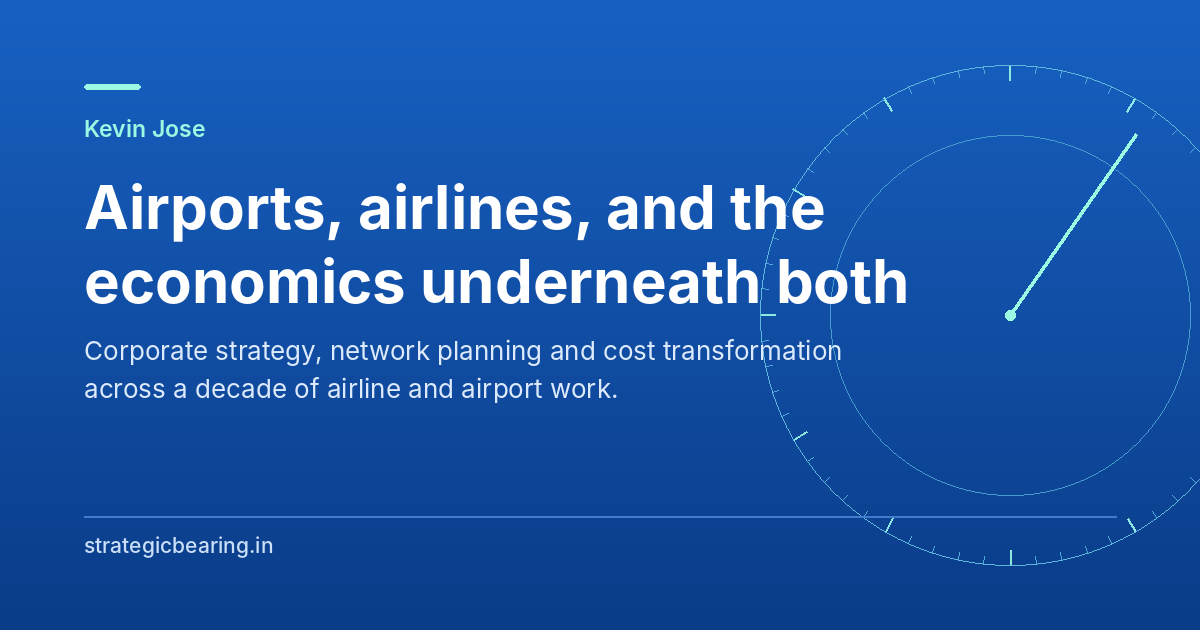
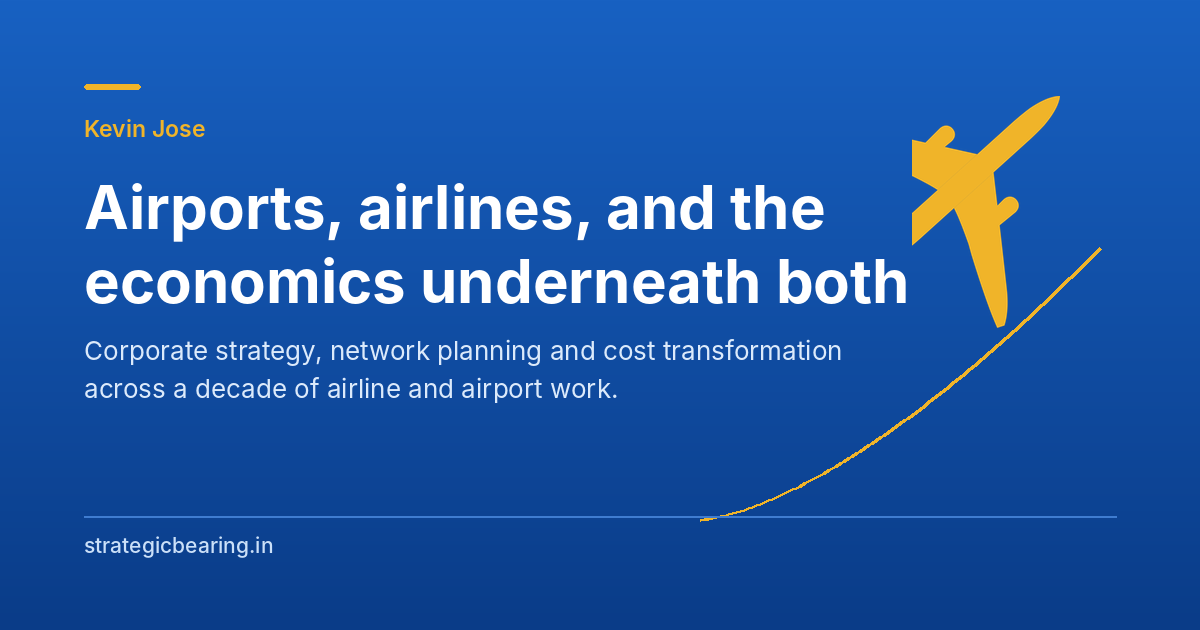
New theme

diff --git a/index.html b/index.html
@@ -33,8 +33,9 @@
   --ink:#082E63; --navy:#0F55B0; --navy-lift:#2171D6;
   --royal:#2171D6; --royal-deep:#0A3C88;
   --teal:#0F5FC0;            /* accent text on light surfaces */
-  --mint:#23D6A6;            /* fills, rules, the compass — never text on blue */
-  --mint-text:#6FF0D2;       /* the accent when it must be read on blue */
+  /* gold: marks, rules and fills only. Nothing saturated reaches 4.5:1 on this
+     blue, so text on blue is white or a pale tint, never the accent. */
+  --accent:#F0B429; --accent-soft:#FFD166;
   --paper:#EEF4FD; --white:#FFFFFF;
   --text:#102A52; --muted:#53688A;
   --line:#DCE7F5; --line-on-dark:rgba(255,255,255,.16);
@@ -69,7 +70,7 @@ p{margin:0 0 18px}
 .marker{display:flex; align-items:center; gap:10px; margin-bottom:14px;
   font-size:13px; font-weight:600; color:var(--muted); letter-spacing:0}
 .marker::before{content:""; width:18px; height:2px; border-radius:2px;
-  background:var(--teal); flex:none}
+  background:var(--accent); flex:none}
 .band--dark .marker{color:#A9C8EC}
 .lede{font-size:18px; color:var(--muted); margin:14px 0 0; max-width:60ch}
 
@@ -79,13 +80,13 @@ p{margin:0 0 18px}
   padding:13px 22px; border-radius:9px; text-decoration:none;
   border:1px solid transparent; cursor:pointer;
   transition:background-color .16s ease, border-color .16s ease, color .16s ease}
-.btn--solid{background:var(--mint); color:#04291F}
-.btn--solid:hover{background:#4FE5BC}
+.btn--solid{background:var(--accent); color:#17244A}
+.btn--solid:hover{background:#FFC94F}
 .btn--ghost{border-color:rgba(255,255,255,.3); color:#fff}
-.btn--ghost:hover{border-color:var(--mint-text); color:var(--mint-text)}
+.btn--ghost:hover{border-color:var(--accent-soft); color:var(--accent-soft)}
 .btn--dark{background:var(--navy); color:#fff}
 .btn--dark:hover{background:var(--navy-lift)}
-.btn:focus-visible{outline:2px solid var(--mint-text); outline-offset:3px}
+.btn:focus-visible{outline:2px solid var(--accent-soft); outline-offset:3px}
 
 /* nav */
 .nav{position:sticky; top:0; z-index:100; background:rgba(14,74,156,.95);
@@ -96,8 +97,8 @@ p{margin:0 0 18px}
 .nav-links{display:flex; gap:28px; list-style:none; margin:0; padding:0}
 .nav-links a{font-size:14.5px; font-weight:500; color:rgba(255,255,255,.78);
   text-decoration:none; transition:color .15s ease}
-.nav-links a:hover,.nav-links a[aria-current]{color:var(--mint-text)}
-.nav-links a:focus-visible{outline:2px solid var(--mint-text); outline-offset:4px; border-radius:3px}
+.nav-links a:hover,.nav-links a[aria-current]{color:var(--accent-soft)}
+.nav-links a:focus-visible{outline:2px solid var(--accent-soft); outline-offset:4px; border-radius:3px}
 
 /* footer */
 footer{background:var(--ink); color:rgba(255,255,255,.62); padding:40px 0; font-size:14px}
@@ -105,7 +106,7 @@ footer .wrap{display:flex; justify-content:space-between; align-items:center;
   flex-wrap:wrap; gap:14px}
 .foot-links{display:flex; gap:24px}
 footer a{color:rgba(255,255,255,.78); text-decoration:none}
-footer a:hover{color:var(--mint-text)}
+footer a:hover{color:var(--accent-soft)}
 
 @media (max-width:760px){
   .band{padding:60px 0}
@@ -133,14 +134,14 @@ footer a:hover{color:var(--mint-text)}
 .hero .wrap{position:relative; z-index:2; padding-top:104px; padding-bottom:96px; max-width:var(--wrap)}
 .hero-copy{max-width:640px}
 .hero h1{color:#fff; margin-bottom:16px}
-.hero-role{font-size:19px; font-weight:500; color:#8CF5DD; margin-bottom:20px}
-.hero-sub{font-size:17.5px; line-height:1.68; color:#E3EEFB; max-width:58ch; margin-bottom:30px}
-.hero-cta{display:flex; gap:12px; flex-wrap:wrap}
-.rose{position:absolute; top:50%; right:-110px; transform:translateY(-50%);
-  width:620px; height:600px; z-index:1; pointer-events:none; opacity:.9}
-/* terminal roofline: the aviation anchor, read as a horizon under the hero */
-.roofline{position:absolute; left:0; right:0; bottom:0; width:100%; height:92px;
-  z-index:1; opacity:.8; pointer-events:none}
+.hero-role{font-size:19.5px; font-weight:500; color:#FFFFFF; margin-bottom:18px; opacity:.92}
+.hero-sub{font-size:17.5px; line-height:1.68; color:#E3EEFB; max-width:58ch; margin-bottom:0}
+.departure{position:absolute; top:50%; right:10px; transform:translateY(-52%);
+  width:620px; height:600px; z-index:1; pointer-events:none}
+/* terminal: the real photograph, faded into the hero gradient */
+.roofline{position:absolute; left:0; right:0; bottom:0; width:100%; height:132px;
+  z-index:1; pointer-events:none;
+  background:url('/terminal.png') center bottom / cover no-repeat}
 
 /* facts rail under the hero, no caps, no middle dots */
 .facts{border-top:1px solid var(--line-on-dark); background:rgba(255,255,255,.07);
@@ -192,11 +193,11 @@ footer a:hover{color:var(--mint-text)}
 .tool > *{position:relative; z-index:1}
 .tool-arcs{position:absolute; right:-70px; top:50%; transform:translateY(-50%);
   width:340px; height:340px; z-index:0; opacity:.5; pointer-events:none}
-.tool .ico{width:26px; height:26px; color:var(--mint); margin-bottom:14px; display:block}
+.tool .ico{width:26px; height:26px; color:var(--accent); margin-bottom:14px; display:block}
 .tool h2{color:#fff; font-size:28px; margin-bottom:10px}
 .tool p{color:#E3EEFB; font-size:16px; max-width:52ch; margin-bottom:0}
 .tool-figs{display:flex; gap:30px; margin-top:20px}
-.tool-fig b{display:block; font-size:24px; font-weight:700; color:#8CF5DD; letter-spacing:-.02em}
+.tool-fig b{display:block; font-size:24px; font-weight:700; color:var(--accent-soft); letter-spacing:-.02em}
 .tool-fig span{font-size:13.5px; color:#D7E8FB}
 
 /* ---------- contact ---------- */
@@ -207,12 +208,12 @@ footer a:hover{color:var(--mint-text)}
 @media (max-width:980px){
   .about-grid{grid-template-columns:1fr; gap:32px}
   .lenses{grid-template-columns:repeat(2,1fr)}
-  .rose{right:-230px; opacity:.5}
+  .departure{right:-170px; opacity:.65}
 }
 @media (max-width:760px){
   .hero .wrap{padding-top:68px; padding-bottom:64px}
-  .rose{display:none}
-  .roofline{height:62px; opacity:.4}
+  .departure{display:none}
+  .roofline{height:86px}
   .facts .wrap{grid-template-columns:1fr; gap:14px}
   .stop{grid-template-columns:1fr; gap:6px}
   .stop::before{display:none}
@@ -243,92 +244,19 @@ footer a:hover{color:var(--mint-text)}
 
 <header class="hero">
   <div class="hero-main">
-  <svg class="rose" viewBox="0 0 620 600" aria-hidden="true" focusable="false">
+  <svg class="departure" viewBox="0 0 620 600" aria-hidden="true" focusable="false">
 <defs>
-<linearGradient id="ring" x1="0" y1="0" x2="1" y2="1">
-<stop offset="0" stop-color="#9BF8E2" stop-opacity=".6"/>
-<stop offset="1" stop-color="#7FE8E0" stop-opacity=".12"/>
+<linearGradient id="trk" x1="0" y1="1" x2="1" y2="0">
+<stop offset="0" stop-color="#FFD166" stop-opacity="0"/>
+<stop offset=".5" stop-color="#FFD166" stop-opacity=".3"/>
+<stop offset="1" stop-color="#FFD166" stop-opacity=".7"/>
 </linearGradient>
-<radialGradient id="glow" cx="50%" cy="50%">
-<stop offset="0" stop-color="#9BF8E2" stop-opacity=".16"/>
-<stop offset="1" stop-color="#9BF8E2" stop-opacity="0"/>
-</radialGradient>
 </defs>
-<circle cx="360" cy="300" r="300" fill="url(#glow)"/>
-<circle cx="360" cy="300" r="258" fill="none" stroke="url(#ring)" stroke-width="1"/>
-<circle cx="360" cy="300" r="188" fill="none" stroke="url(#ring)" stroke-width="1" stroke-dasharray="2 6"/>
-<circle cx="360" cy="300" r="204" fill="none" stroke="url(#ring)" stroke-width="1" opacity=".45"/>
-<line x1="360.0" y1="57.0" x2="360.0" y2="42.0" stroke="#9BF8E2" stroke-width="1.4" opacity=".72"/>
-<line x1="386.2" y1="50.4" x2="387.0" y2="43.4" stroke="#9BF8E2" stroke-width="1" opacity=".34"/>
-<line x1="412.2" y1="54.5" x2="413.6" y2="47.6" stroke="#9BF8E2" stroke-width="1" opacity=".34"/>
-<line x1="437.6" y1="61.3" x2="439.7" y2="54.6" stroke="#9BF8E2" stroke-width="1" opacity=".34"/>
-<line x1="462.1" y1="70.7" x2="464.9" y2="64.3" stroke="#9BF8E2" stroke-width="1" opacity=".34"/>
-<line x1="481.5" y1="89.6" x2="489.0" y2="76.6" stroke="#9BF8E2" stroke-width="1.4" opacity=".72"/>
-<line x1="507.5" y1="96.9" x2="511.6" y2="91.3" stroke="#9BF8E2" stroke-width="1" opacity=".34"/>
-<line x1="528.0" y1="113.5" x2="532.6" y2="108.3" stroke="#9BF8E2" stroke-width="1" opacity=".34"/>
-<line x1="546.5" y1="132.0" x2="551.7" y2="127.4" stroke="#9BF8E2" stroke-width="1" opacity=".34"/>
-<line x1="563.1" y1="152.5" x2="568.7" y2="148.4" stroke="#9BF8E2" stroke-width="1" opacity=".34"/>
-<line x1="570.4" y1="178.5" x2="583.4" y2="171.0" stroke="#9BF8E2" stroke-width="1.4" opacity=".72"/>
-<line x1="589.3" y1="197.9" x2="595.7" y2="195.1" stroke="#9BF8E2" stroke-width="1" opacity=".34"/>
-<line x1="598.7" y1="222.4" x2="605.4" y2="220.3" stroke="#9BF8E2" stroke-width="1" opacity=".34"/>
-<line x1="605.5" y1="247.8" x2="612.4" y2="246.4" stroke="#9BF8E2" stroke-width="1" opacity=".34"/>
-<line x1="609.6" y1="273.8" x2="616.6" y2="273.0" stroke="#9BF8E2" stroke-width="1" opacity=".34"/>
-<line x1="603.0" y1="300.0" x2="618.0" y2="300.0" stroke="#9BF8E2" stroke-width="1.4" opacity=".72"/>
-<line x1="609.6" y1="326.2" x2="616.6" y2="327.0" stroke="#9BF8E2" stroke-width="1" opacity=".34"/>
-<line x1="605.5" y1="352.2" x2="612.4" y2="353.6" stroke="#9BF8E2" stroke-width="1" opacity=".34"/>
-<line x1="598.7" y1="377.6" x2="605.4" y2="379.7" stroke="#9BF8E2" stroke-width="1" opacity=".34"/>
-<line x1="589.3" y1="402.1" x2="595.7" y2="404.9" stroke="#9BF8E2" stroke-width="1" opacity=".34"/>
-<line x1="570.4" y1="421.5" x2="583.4" y2="429.0" stroke="#9BF8E2" stroke-width="1.4" opacity=".72"/>
-<line x1="563.1" y1="447.5" x2="568.7" y2="451.6" stroke="#9BF8E2" stroke-width="1" opacity=".34"/>
-<line x1="546.5" y1="468.0" x2="551.7" y2="472.6" stroke="#9BF8E2" stroke-width="1" opacity=".34"/>
-<line x1="528.0" y1="486.5" x2="532.6" y2="491.7" stroke="#9BF8E2" stroke-width="1" opacity=".34"/>
-<line x1="507.5" y1="503.1" x2="511.6" y2="508.7" stroke="#9BF8E2" stroke-width="1" opacity=".34"/>
-<line x1="481.5" y1="510.4" x2="489.0" y2="523.4" stroke="#9BF8E2" stroke-width="1.4" opacity=".72"/>
-<line x1="462.1" y1="529.3" x2="464.9" y2="535.7" stroke="#9BF8E2" stroke-width="1" opacity=".34"/>
-<line x1="437.6" y1="538.7" x2="439.7" y2="545.4" stroke="#9BF8E2" stroke-width="1" opacity=".34"/>
-<line x1="412.2" y1="545.5" x2="413.6" y2="552.4" stroke="#9BF8E2" stroke-width="1" opacity=".34"/>
-<line x1="386.2" y1="549.6" x2="387.0" y2="556.6" stroke="#9BF8E2" stroke-width="1" opacity=".34"/>
-<line x1="360.0" y1="543.0" x2="360.0" y2="558.0" stroke="#9BF8E2" stroke-width="1.4" opacity=".72"/>
-<line x1="333.8" y1="549.6" x2="333.0" y2="556.6" stroke="#9BF8E2" stroke-width="1" opacity=".34"/>
-<line x1="307.8" y1="545.5" x2="306.4" y2="552.4" stroke="#9BF8E2" stroke-width="1" opacity=".34"/>
-<line x1="282.4" y1="538.7" x2="280.3" y2="545.4" stroke="#9BF8E2" stroke-width="1" opacity=".34"/>
-<line x1="257.9" y1="529.3" x2="255.1" y2="535.7" stroke="#9BF8E2" stroke-width="1" opacity=".34"/>
-<line x1="238.5" y1="510.4" x2="231.0" y2="523.4" stroke="#9BF8E2" stroke-width="1.4" opacity=".72"/>
-<line x1="212.5" y1="503.1" x2="208.4" y2="508.7" stroke="#9BF8E2" stroke-width="1" opacity=".34"/>
-<line x1="192.0" y1="486.5" x2="187.4" y2="491.7" stroke="#9BF8E2" stroke-width="1" opacity=".34"/>
-<line x1="173.5" y1="468.0" x2="168.3" y2="472.6" stroke="#9BF8E2" stroke-width="1" opacity=".34"/>
-<line x1="156.9" y1="447.5" x2="151.3" y2="451.6" stroke="#9BF8E2" stroke-width="1" opacity=".34"/>
-<line x1="149.6" y1="421.5" x2="136.6" y2="429.0" stroke="#9BF8E2" stroke-width="1.4" opacity=".72"/>
-<line x1="130.7" y1="402.1" x2="124.3" y2="404.9" stroke="#9BF8E2" stroke-width="1" opacity=".34"/>
-<line x1="121.3" y1="377.6" x2="114.6" y2="379.7" stroke="#9BF8E2" stroke-width="1" opacity=".34"/>
-<line x1="114.5" y1="352.2" x2="107.6" y2="353.6" stroke="#9BF8E2" stroke-width="1" opacity=".34"/>
-<line x1="110.4" y1="326.2" x2="103.4" y2="327.0" stroke="#9BF8E2" stroke-width="1" opacity=".34"/>
-<line x1="117.0" y1="300.0" x2="102.0" y2="300.0" stroke="#9BF8E2" stroke-width="1.4" opacity=".72"/>
-<line x1="110.4" y1="273.8" x2="103.4" y2="273.0" stroke="#9BF8E2" stroke-width="1" opacity=".34"/>
-<line x1="114.5" y1="247.8" x2="107.6" y2="246.4" stroke="#9BF8E2" stroke-width="1" opacity=".34"/>
-<line x1="121.3" y1="222.4" x2="114.6" y2="220.3" stroke="#9BF8E2" stroke-width="1" opacity=".34"/>
-<line x1="130.7" y1="197.9" x2="124.3" y2="195.1" stroke="#9BF8E2" stroke-width="1" opacity=".34"/>
-<line x1="149.6" y1="178.5" x2="136.6" y2="171.0" stroke="#9BF8E2" stroke-width="1.4" opacity=".72"/>
-<line x1="156.9" y1="152.5" x2="151.3" y2="148.4" stroke="#9BF8E2" stroke-width="1" opacity=".34"/>
-<line x1="173.5" y1="132.0" x2="168.3" y2="127.4" stroke="#9BF8E2" stroke-width="1" opacity=".34"/>
-<line x1="192.0" y1="113.5" x2="187.4" y2="108.3" stroke="#9BF8E2" stroke-width="1" opacity=".34"/>
-<line x1="212.5" y1="96.9" x2="208.4" y2="91.3" stroke="#9BF8E2" stroke-width="1" opacity=".34"/>
-<line x1="238.5" y1="89.6" x2="231.0" y2="76.6" stroke="#9BF8E2" stroke-width="1.4" opacity=".72"/>
-<line x1="257.9" y1="70.7" x2="255.1" y2="64.3" stroke="#9BF8E2" stroke-width="1" opacity=".34"/>
-<line x1="282.4" y1="61.3" x2="280.3" y2="54.6" stroke="#9BF8E2" stroke-width="1" opacity=".34"/>
-<line x1="307.8" y1="54.5" x2="306.4" y2="47.6" stroke="#9BF8E2" stroke-width="1" opacity=".34"/>
-<line x1="333.8" y1="50.4" x2="333.0" y2="43.4" stroke="#9BF8E2" stroke-width="1" opacity=".34"/>
-<line x1="360" y1="300" x2="360.0" y2="112.0" stroke="#9BF8E2" stroke-width="1" opacity=".2"/>
-<line x1="360" y1="300" x2="548.0" y2="300.0" stroke="#9BF8E2" stroke-width="1" opacity=".2"/>
-<line x1="360" y1="300" x2="360.0" y2="488.0" stroke="#9BF8E2" stroke-width="1" opacity=".2"/>
-<line x1="360" y1="300" x2="172.0" y2="300.0" stroke="#9BF8E2" stroke-width="1" opacity=".2"/>
-<line x1="360" y1="300" x2="490.8" y2="113.2" stroke="#A8FBE8" stroke-width="2.5" opacity="1"/>
-<line x1="490.8" y1="113.2" x2="489.5" y2="128.2" stroke="#A8FBE8" stroke-width="2.5" opacity="1"/>
-<line x1="490.8" y1="113.2" x2="477.2" y2="119.6" stroke="#A8FBE8" stroke-width="2.5" opacity="1"/>
-<circle cx="360" cy="300" r="4" fill="#A8FBE8" opacity="1"/>
-<path d="M 360.0 204.0 A 96 96 0 0 1 415.1 221.4" fill="none" stroke="#9BF8E2" stroke-width="1.8" opacity=".7"/>
+<path d="M 28.0 486.0 L 31.9 485.8 L 35.8 485.4 L 39.8 484.9 L 43.7 484.3 L 47.6 483.5 L 51.5 482.7 L 55.4 481.7 L 59.4 480.7 L 63.3 479.6 L 67.2 478.5 L 71.1 477.2 L 75.0 475.9 L 79.0 474.5 L 82.9 473.1 L 86.8 471.6 L 90.7 470.0 L 94.6 468.4 L 98.6 466.7 L 102.5 465.0 L 106.4 463.2 L 110.3 461.3 L 114.2 459.4 L 118.2 457.4 L 122.1 455.4 L 126.0 453.4 L 129.9 451.2 L 133.8 449.1 L 137.8 446.9 L 141.7 444.6 L 145.6 442.3 L 149.5 439.9 L 153.4 437.5 L 157.4 435.1 L 161.3 432.6 L 165.2 430.1 L 169.1 427.5 L 173.0 424.9 L 177.0 422.2 L 180.9 419.5 L 184.8 416.8 L 188.7 414.0 L 192.6 411.1 L 196.6 408.3 L 200.5 405.3 L 204.4 402.4 L 208.3 399.4 L 212.2 396.4 L 216.2 393.3 L 220.1 390.2 L 224.0 387.0 L 227.9 383.9 L 231.8 380.6 L 235.8 377.4 L 239.7 374.1 L 243.6 370.7 L 247.5 367.4 L 251.4 364.0 L 255.4 360.5 L 259.3 357.0 L 263.2 353.5 L 267.1 350.0 L 271.0 346.4 L 275.0 342.8 L 278.9 339.1 L 282.8 335.4 L 286.7 331.7 L 290.6 327.9 L 294.6 324.1 L 298.5 320.3 L 302.4 316.5 L 306.3 312.6 L 310.2 308.6 L 314.2 304.7 L 318.1 300.7 L 322.0 296.7 L 325.9 292.6 L 329.8 288.5 L 333.8 284.4 L 337.7 280.3 L 341.6 276.1 L 345.5 271.9 L 349.4 267.6 L 353.4 263.3 L 357.3 259.0 L 361.2 254.7 L 365.1 250.3 L 369.0 245.9 L 373.0 241.5 L 376.9 237.0 L 380.8 232.5 L 384.7 228.0 L 388.6 223.5 L 392.6 218.9 L 396.5 214.3 L 400.4 209.6 L 404.3 205.0 L 408.2 200.3 L 412.2 195.5 L 416.1 190.8 L 420.0 186.0" fill="none" stroke="url(#trk)" stroke-width="2.2" stroke-linecap="round"/>
+<circle cx="51.5" cy="482.7" r="2.2" fill="#FFD166" opacity="0.15"/><circle cx="94.6" cy="468.4" r="2.2" fill="#FFD166" opacity="0.20"/><circle cx="137.8" cy="446.9" r="2.2" fill="#FFD166" opacity="0.25"/><circle cx="180.9" cy="419.5" r="2.2" fill="#FFD166" opacity="0.30"/><circle cx="224.0" cy="387.0" r="2.2" fill="#FFD166" opacity="0.34"/><circle cx="267.1" cy="350.0" r="2.2" fill="#FFD166" opacity="0.39"/><circle cx="310.2" cy="308.6" r="2.2" fill="#FFD166" opacity="0.44"/><circle cx="353.4" cy="263.3" r="2.2" fill="#FFD166" opacity="0.49"/><circle cx="396.5" cy="214.3" r="2.2" fill="#FFD166" opacity="0.54"/>
+<g transform="translate(438 172) rotate(48) scale(2.5150)"><g fill="#F0B429"><path d="M 2.98 24.4 C 12.00 30.8 20.00 36.5 26.80 41.4 C 29.40 43.4 31.20 45.3 32.37 47.3 L 31.60 49.0 C 28.00 47.9 22.00 45.4 14.20 41.8 L 11.80 40.6 C 8.60 39.3 5.60 38.1 2.98 37.4 Z"/><path d="M -2.98 24.4 C -12.00 30.8 -20.00 36.5 -26.80 41.4 C -29.40 43.4 -31.20 45.3 -32.37 47.3 L -31.60 49.0 C -28.00 47.9 -22.00 45.4 -14.20 41.8 L -11.80 40.6 C -8.60 39.3 -5.60 38.1 -2.98 37.4 Z"/><path d="M 2.00 55.8 C 4.60 57.2 7.20 59.2 9.30 61.3 L 8.60 62.4 C 6.20 61.2 3.80 60.3 1.75 59.8 Z"/><path d="M -2.00 55.8 C -4.60 57.2 -7.20 59.2 -9.30 61.3 L -8.60 62.4 C -6.20 61.2 -3.80 60.3 -1.75 59.8 Z"/><path d="M 10.50 30.0 L 12.70 30.0 L 13.10 35.4 L 10.10 35.4 Z"/><path d="M -10.50 30.0 L -12.70 30.0 L -13.10 35.4 L -10.10 35.4 Z"/><path d="M 0 0 C 1.35 1.4 2.3 4.2 2.74 7.6 C 2.92 9.6 2.98 11.6 2.98 13.4 L 2.98 48.0 C 2.94 52.6 2.66 57.4 2.02 61.6 C 1.72 63.8 1.22 65.8 0.62 66.8 L -0.62 66.8 C -1.22 65.8 -1.72 63.8 -2.02 61.6 C -2.66 57.4 -2.94 52.6 -2.98 48.0 L -2.98 13.4 C -2.98 11.6 -2.92 9.6 -2.74 7.6 C -2.3 4.2 -1.35 1.4 0 0 Z"/><path d="M 9.45 27.0 C 9.45 25.5 10.40 24.7 11.60 24.7 C 12.80 24.7 13.75 25.5 13.75 27.0 L 13.45 33.0 C 13.45 33.9 12.60 34.4 11.60 34.4 C 10.60 34.4 9.75 33.9 9.75 33.0 Z"/><path d="M -9.45 27.0 C -9.45 25.5 -10.40 24.7 -11.60 24.7 C -12.80 24.7 -13.75 25.5 -13.75 27.0 L -13.45 33.0 C -13.45 33.9 -12.60 34.4 -11.60 34.4 C -10.60 34.4 -9.75 33.9 -9.75 33.0 Z"/><path d="M 0 47.0 C 0.58 49.2 0.78 53.4 0.78 58.2 L 0.78 62.8 L -0.78 62.8 L -0.78 58.2 C -0.78 53.4 -0.58 49.2 0 47.0 Z"/></g></g>
 </svg>
-  <svg class="roofline" viewBox="0 0 1584 122" preserveAspectRatio="none" aria-hidden="true"><g fill="none" stroke="#9BF8E2" stroke-width="1.4"><path d="M -60.0 120.0 L -59.6 116.4 L -58.6 112.8 L -56.8 109.3 L -54.3 105.8 L -51.2 102.4 L -47.4 99.1 L -42.9 96.0 L -37.8 93.0 L -32.2 90.1 L -26.0 87.5 L -19.3 85.0 L -12.2 82.8 L -4.6 80.8 L 3.3 79.0 L 11.6 77.5 L 20.2 76.3 L 28.9 75.3 L 37.9 74.6 L 46.9 74.1 L 56.0 74.0 L 65.1 74.1 L 74.1 74.6 L 83.1 75.3 L 91.8 76.3 L 100.4 77.5 L 108.7 79.0 L 116.6 80.8 L 124.2 82.8 L 131.3 85.0 L 138.0 87.5 L 144.2 90.1 L 149.8 93.0 L 154.9 96.0 L 159.4 99.1 L 163.2 102.4 L 166.3 105.8 L 168.8 109.3 L 170.6 112.8 L 171.6 116.4 L 172.0 120.0"/><g opacity=".5"><line x1="-44.5" y1="97.0" x2="-44.5" y2="120"/><line x1="-2.0" y1="80.2" x2="-2.0" y2="120"/><line x1="56.0" y1="74.0" x2="56.0" y2="120"/><line x1="114.0" y1="80.2" x2="114.0" y2="120"/><line x1="156.5" y1="97.0" x2="156.5" y2="120"/></g><path d="M 166.0 120.0 L 166.4 116.4 L 167.4 112.8 L 169.2 109.3 L 171.7 105.8 L 174.8 102.4 L 178.6 99.1 L 183.1 96.0 L 188.2 93.0 L 193.8 90.1 L 200.0 87.5 L 206.7 85.0 L 213.8 82.8 L 221.4 80.8 L 229.3 79.0 L 237.6 77.5 L 246.2 76.3 L 254.9 75.3 L 263.9 74.6 L 272.9 74.1 L 282.0 74.0 L 291.1 74.1 L 300.1 74.6 L 309.1 75.3 L 317.8 76.3 L 326.4 77.5 L 334.7 79.0 L 342.6 80.8 L 350.2 82.8 L 357.3 85.0 L 364.0 87.5 L 370.2 90.1 L 375.8 93.0 L 380.9 96.0 L 385.4 99.1 L 389.2 102.4 L 392.3 105.8 L 394.8 109.3 L 396.6 112.8 L 397.6 116.4 L 398.0 120.0"/><g opacity=".5"><line x1="181.5" y1="97.0" x2="181.5" y2="120"/><line x1="224.0" y1="80.2" x2="224.0" y2="120"/><line x1="282.0" y1="74.0" x2="282.0" y2="120"/><line x1="340.0" y1="80.2" x2="340.0" y2="120"/><line x1="382.5" y1="97.0" x2="382.5" y2="120"/></g><path d="M 392.0 120.0 L 392.4 116.4 L 393.4 112.8 L 395.2 109.3 L 397.7 105.8 L 400.8 102.4 L 404.6 99.1 L 409.1 96.0 L 414.2 93.0 L 419.8 90.1 L 426.0 87.5 L 432.7 85.0 L 439.8 82.8 L 447.4 80.8 L 455.3 79.0 L 463.6 77.5 L 472.2 76.3 L 480.9 75.3 L 489.9 74.6 L 498.9 74.1 L 508.0 74.0 L 517.1 74.1 L 526.1 74.6 L 535.1 75.3 L 543.8 76.3 L 552.4 77.5 L 560.7 79.0 L 568.6 80.8 L 576.2 82.8 L 583.3 85.0 L 590.0 87.5 L 596.2 90.1 L 601.8 93.0 L 606.9 96.0 L 611.4 99.1 L 615.2 102.4 L 618.3 105.8 L 620.8 109.3 L 622.6 112.8 L 623.6 116.4 L 624.0 120.0"/><g opacity=".5"><line x1="407.5" y1="97.0" x2="407.5" y2="120"/><line x1="450.0" y1="80.2" x2="450.0" y2="120"/><line x1="508.0" y1="74.0" x2="508.0" y2="120"/><line x1="566.0" y1="80.2" x2="566.0" y2="120"/><line x1="608.5" y1="97.0" x2="608.5" y2="120"/></g><path d="M 618.0 120.0 L 618.4 116.4 L 619.4 112.8 L 621.2 109.3 L 623.7 105.8 L 626.8 102.4 L 630.6 99.1 L 635.1 96.0 L 640.2 93.0 L 645.8 90.1 L 652.0 87.5 L 658.7 85.0 L 665.8 82.8 L 673.4 80.8 L 681.3 79.0 L 689.6 77.5 L 698.2 76.3 L 706.9 75.3 L 715.9 74.6 L 724.9 74.1 L 734.0 74.0 L 743.1 74.1 L 752.1 74.6 L 761.1 75.3 L 769.8 76.3 L 778.4 77.5 L 786.7 79.0 L 794.6 80.8 L 802.2 82.8 L 809.3 85.0 L 816.0 87.5 L 822.2 90.1 L 827.8 93.0 L 832.9 96.0 L 837.4 99.1 L 841.2 102.4 L 844.3 105.8 L 846.8 109.3 L 848.6 112.8 L 849.6 116.4 L 850.0 120.0"/><g opacity=".5"><line x1="633.5" y1="97.0" x2="633.5" y2="120"/><line x1="676.0" y1="80.2" x2="676.0" y2="120"/><line x1="734.0" y1="74.0" x2="734.0" y2="120"/><line x1="792.0" y1="80.2" x2="792.0" y2="120"/><line x1="834.5" y1="97.0" x2="834.5" y2="120"/></g><path d="M 844.0 120.0 L 844.4 116.4 L 845.4 112.8 L 847.2 109.3 L 849.7 105.8 L 852.8 102.4 L 856.6 99.1 L 861.1 96.0 L 866.2 93.0 L 871.8 90.1 L 878.0 87.5 L 884.7 85.0 L 891.8 82.8 L 899.4 80.8 L 907.3 79.0 L 915.6 77.5 L 924.2 76.3 L 932.9 75.3 L 941.9 74.6 L 950.9 74.1 L 960.0 74.0 L 969.1 74.1 L 978.1 74.6 L 987.1 75.3 L 995.8 76.3 L 1004.4 77.5 L 1012.7 79.0 L 1020.6 80.8 L 1028.2 82.8 L 1035.3 85.0 L 1042.0 87.5 L 1048.2 90.1 L 1053.8 93.0 L 1058.9 96.0 L 1063.4 99.1 L 1067.2 102.4 L 1070.3 105.8 L 1072.8 109.3 L 1074.6 112.8 L 1075.6 116.4 L 1076.0 120.0"/><g opacity=".5"><line x1="859.5" y1="97.0" x2="859.5" y2="120"/><line x1="902.0" y1="80.2" x2="902.0" y2="120"/><line x1="960.0" y1="74.0" x2="960.0" y2="120"/><line x1="1018.0" y1="80.2" x2="1018.0" y2="120"/><line x1="1060.5" y1="97.0" x2="1060.5" y2="120"/></g><path d="M 1070.0 120.0 L 1070.4 116.4 L 1071.4 112.8 L 1073.2 109.3 L 1075.7 105.8 L 1078.8 102.4 L 1082.6 99.1 L 1087.1 96.0 L 1092.2 93.0 L 1097.8 90.1 L 1104.0 87.5 L 1110.7 85.0 L 1117.8 82.8 L 1125.4 80.8 L 1133.3 79.0 L 1141.6 77.5 L 1150.2 76.3 L 1158.9 75.3 L 1167.9 74.6 L 1176.9 74.1 L 1186.0 74.0 L 1195.1 74.1 L 1204.1 74.6 L 1213.1 75.3 L 1221.8 76.3 L 1230.4 77.5 L 1238.7 79.0 L 1246.6 80.8 L 1254.2 82.8 L 1261.3 85.0 L 1268.0 87.5 L 1274.2 90.1 L 1279.8 93.0 L 1284.9 96.0 L 1289.4 99.1 L 1293.2 102.4 L 1296.3 105.8 L 1298.8 109.3 L 1300.6 112.8 L 1301.6 116.4 L 1302.0 120.0"/><g opacity=".5"><line x1="1085.5" y1="97.0" x2="1085.5" y2="120"/><line x1="1128.0" y1="80.2" x2="1128.0" y2="120"/><line x1="1186.0" y1="74.0" x2="1186.0" y2="120"/><line x1="1244.0" y1="80.2" x2="1244.0" y2="120"/><line x1="1286.5" y1="97.0" x2="1286.5" y2="120"/></g><path d="M 1296.0 120.0 L 1296.4 116.4 L 1297.4 112.8 L 1299.2 109.3 L 1301.7 105.8 L 1304.8 102.4 L 1308.6 99.1 L 1313.1 96.0 L 1318.2 93.0 L 1323.8 90.1 L 1330.0 87.5 L 1336.7 85.0 L 1343.8 82.8 L 1351.4 80.8 L 1359.3 79.0 L 1367.6 77.5 L 1376.2 76.3 L 1384.9 75.3 L 1393.9 74.6 L 1402.9 74.1 L 1412.0 74.0 L 1421.1 74.1 L 1430.1 74.6 L 1439.1 75.3 L 1447.8 76.3 L 1456.4 77.5 L 1464.7 79.0 L 1472.6 80.8 L 1480.2 82.8 L 1487.3 85.0 L 1494.0 87.5 L 1500.2 90.1 L 1505.8 93.0 L 1510.9 96.0 L 1515.4 99.1 L 1519.2 102.4 L 1522.3 105.8 L 1524.8 109.3 L 1526.6 112.8 L 1527.6 116.4 L 1528.0 120.0"/><g opacity=".5"><line x1="1311.5" y1="97.0" x2="1311.5" y2="120"/><line x1="1354.0" y1="80.2" x2="1354.0" y2="120"/><line x1="1412.0" y1="74.0" x2="1412.0" y2="120"/><line x1="1470.0" y1="80.2" x2="1470.0" y2="120"/><line x1="1512.5" y1="97.0" x2="1512.5" y2="120"/></g><path d="M 1522.0 120.0 L 1522.4 116.4 L 1523.4 112.8 L 1525.2 109.3 L 1527.7 105.8 L 1530.8 102.4 L 1534.6 99.1 L 1539.1 96.0 L 1544.2 93.0 L 1549.8 90.1 L 1556.0 87.5 L 1562.7 85.0 L 1569.8 82.8 L 1577.4 80.8 L 1585.3 79.0 L 1593.6 77.5 L 1602.2 76.3 L 1610.9 75.3 L 1619.9 74.6 L 1628.9 74.1 L 1638.0 74.0 L 1647.1 74.1 L 1656.1 74.6 L 1665.1 75.3 L 1673.8 76.3 L 1682.4 77.5 L 1690.7 79.0 L 1698.6 80.8 L 1706.2 82.8 L 1713.3 85.0 L 1720.0 87.5 L 1726.2 90.1 L 1731.8 93.0 L 1736.9 96.0 L 1741.4 99.1 L 1745.2 102.4 L 1748.3 105.8 L 1750.8 109.3 L 1752.6 112.8 L 1753.6 116.4 L 1754.0 120.0"/><g opacity=".5"><line x1="1537.5" y1="97.0" x2="1537.5" y2="120"/><line x1="1580.0" y1="80.2" x2="1580.0" y2="120"/><line x1="1638.0" y1="74.0" x2="1638.0" y2="120"/><line x1="1696.0" y1="80.2" x2="1696.0" y2="120"/><line x1="1738.5" y1="97.0" x2="1738.5" y2="120"/></g><path d="M 1748.0 120.0 L 1748.4 116.4 L 1749.4 112.8 L 1751.2 109.3 L 1753.7 105.8 L 1756.8 102.4 L 1760.6 99.1 L 1765.1 96.0 L 1770.2 93.0 L 1775.8 90.1 L 1782.0 87.5 L 1788.7 85.0 L 1795.8 82.8 L 1803.4 80.8 L 1811.3 79.0 L 1819.6 77.5 L 1828.2 76.3 L 1836.9 75.3 L 1845.9 74.6 L 1854.9 74.1 L 1864.0 74.0 L 1873.1 74.1 L 1882.1 74.6 L 1891.1 75.3 L 1899.8 76.3 L 1908.4 77.5 L 1916.7 79.0 L 1924.6 80.8 L 1932.2 82.8 L 1939.3 85.0 L 1946.0 87.5 L 1952.2 90.1 L 1957.8 93.0 L 1962.9 96.0 L 1967.4 99.1 L 1971.2 102.4 L 1974.3 105.8 L 1976.8 109.3 L 1978.6 112.8 L 1979.6 116.4 L 1980.0 120.0"/><g opacity=".5"><line x1="1763.5" y1="97.0" x2="1763.5" y2="120"/><line x1="1806.0" y1="80.2" x2="1806.0" y2="120"/><line x1="1864.0" y1="74.0" x2="1864.0" y2="120"/><line x1="1922.0" y1="80.2" x2="1922.0" y2="120"/><line x1="1964.5" y1="97.0" x2="1964.5" y2="120"/></g></g><line x1="0" y1="120.5" x2="1584" y2="120.5" stroke="#BFFBEC" stroke-width="1.4"/></svg>
+  <div class="roofline"></div>
   <div class="wrap">
     <div class="hero-copy">
       <h1>Kevin Jose</h1>
@@ -336,16 +264,12 @@ footer a:hover{color:var(--mint-text)}
       <p class="hero-sub">A decade across airlines, airports and consulting: corporate strategy,
       network planning, business planning and cost transformation. Currently Lead — Corporate
       Strategy at Riyadh Airports.</p>
-      <div class="hero-cta">
-        <a href="/tools/airport-charges/" class="btn btn--solid">Open the calculator</a>
-        <a href="strategic-bearing.html" class="btn btn--ghost">Read the writing</a>
-      </div>
     </div>
   </div>
   </div>
   <div class="facts">
     <dl class="wrap">
-      <div class="fact"><dt>Based in</dt><dd>Riyadh</dd></div>
+      <div class="fact"><dt>Based in</dt><dd>Riyadh&nbsp;|&nbsp;Dubai</dd></div>
       <div class="fact"><dt>Working on</dt><dd>Airport and airline strategy</dd></div>
       <div class="fact"><dt>Studied at</dt><dd>Trinity College Dublin</dd></div>
     </dl>
@@ -443,7 +367,7 @@ footer a:hover{color:var(--mint-text)}
     <div class="marker">Tools</div>
     <div class="tool">
       <svg class="tool-arcs" viewBox="0 0 340 340" aria-hidden="true">
-        <g fill="none" stroke="#23D6A6" stroke-width="1">
+        <g fill="none" stroke="#FFD166" stroke-width="1">
           <circle cx="170" cy="170" r="162" opacity=".22"/>
           <circle cx="170" cy="170" r="122" opacity=".16" stroke-dasharray="2 7"/>
           <circle cx="170" cy="170" r="82" opacity=".12"/>

diff --git a/strategic-bearing.html b/strategic-bearing.html
@@ -26,8 +26,9 @@
   --ink:#082E63; --navy:#0F55B0; --navy-lift:#2171D6;
   --royal:#2171D6; --royal-deep:#0A3C88;
   --teal:#0F5FC0;            /* accent text on light surfaces */
-  --mint:#23D6A6;            /* fills, rules, the compass — never text on blue */
-  --mint-text:#6FF0D2;       /* the accent when it must be read on blue */
+  /* gold: marks, rules and fills only. Nothing saturated reaches 4.5:1 on this
+     blue, so text on blue is white or a pale tint, never the accent. */
+  --accent:#F0B429; --accent-soft:#FFD166;
   --paper:#EEF4FD; --white:#FFFFFF;
   --text:#102A52; --muted:#53688A;
   --line:#DCE7F5; --line-on-dark:rgba(255,255,255,.16);
@@ -62,7 +63,7 @@ p{margin:0 0 18px}
 .marker{display:flex; align-items:center; gap:10px; margin-bottom:14px;
   font-size:13px; font-weight:600; color:var(--muted); letter-spacing:0}
 .marker::before{content:""; width:18px; height:2px; border-radius:2px;
-  background:var(--teal); flex:none}
+  background:var(--accent); flex:none}
 .band--dark .marker{color:#A9C8EC}
 .lede{font-size:18px; color:var(--muted); margin:14px 0 0; max-width:60ch}
 
@@ -72,13 +73,13 @@ p{margin:0 0 18px}
   padding:13px 22px; border-radius:9px; text-decoration:none;
   border:1px solid transparent; cursor:pointer;
   transition:background-color .16s ease, border-color .16s ease, color .16s ease}
-.btn--solid{background:var(--mint); color:#04291F}
-.btn--solid:hover{background:#4FE5BC}
+.btn--solid{background:var(--accent); color:#17244A}
+.btn--solid:hover{background:#FFC94F}
 .btn--ghost{border-color:rgba(255,255,255,.3); color:#fff}
-.btn--ghost:hover{border-color:var(--mint-text); color:var(--mint-text)}
+.btn--ghost:hover{border-color:var(--accent-soft); color:var(--accent-soft)}
 .btn--dark{background:var(--navy); color:#fff}
 .btn--dark:hover{background:var(--navy-lift)}
-.btn:focus-visible{outline:2px solid var(--mint-text); outline-offset:3px}
+.btn:focus-visible{outline:2px solid var(--accent-soft); outline-offset:3px}
 
 /* nav */
 .nav{position:sticky; top:0; z-index:100; background:rgba(14,74,156,.95);
@@ -89,8 +90,8 @@ p{margin:0 0 18px}
 .nav-links{display:flex; gap:28px; list-style:none; margin:0; padding:0}
 .nav-links a{font-size:14.5px; font-weight:500; color:rgba(255,255,255,.78);
   text-decoration:none; transition:color .15s ease}
-.nav-links a:hover,.nav-links a[aria-current]{color:var(--mint-text)}
-.nav-links a:focus-visible{outline:2px solid var(--mint-text); outline-offset:4px; border-radius:3px}
+.nav-links a:hover,.nav-links a[aria-current]{color:var(--accent-soft)}
+.nav-links a:focus-visible{outline:2px solid var(--accent-soft); outline-offset:4px; border-radius:3px}
 
 /* footer */
 footer{background:var(--ink); color:rgba(255,255,255,.62); padding:40px 0; font-size:14px}
@@ -98,7 +99,7 @@ footer .wrap{display:flex; justify-content:space-between; align-items:center;
   flex-wrap:wrap; gap:14px}
 .foot-links{display:flex; gap:24px}
 footer a{color:rgba(255,255,255,.78); text-decoration:none}
-footer a:hover{color:var(--mint-text)}
+footer a:hover{color:var(--accent-soft)}
 
 @media (max-width:760px){
   .band{padding:60px 0}
@@ -123,20 +124,21 @@ footer a:hover{color:var(--mint-text)}
 .hero{position:relative; overflow:hidden; color:#fff;
   background:linear-gradient(145deg,#1861C2 0%,#0F55B0 42%,#0A3C88 100%)}
 .hero .wrap{position:relative; z-index:2; padding-top:72px; padding-bottom:40px}
-.hero-eyebrow{font-size:14px; font-weight:600; color:#8CF5DD; margin-bottom:12px}
+.hero-eyebrow{font-size:14px; font-weight:600; color:var(--accent-soft); margin-bottom:12px}
 .hero h1{color:#fff; font-size:clamp(30px,4.2vw,46px); max-width:17ch; margin-bottom:16px}
 .hero-sub{color:#E3EEFB; font-size:17px; max-width:60ch; margin-bottom:26px}
-.arcs{position:absolute; right:-120px; top:50%; transform:translateY(-50%);
-  width:420px; height:420px; z-index:1; opacity:.55; pointer-events:none}
+.terminal{position:absolute; left:0; right:0; bottom:0; width:100%; height:104px;
+  z-index:1; pointer-events:none;
+  background:url('/terminal.png') center bottom / cover no-repeat}
 
 /* ---------- pillar filter ---------- */
 .tabs{display:flex; gap:8px; flex-wrap:wrap; padding-bottom:4px}
 .tab-btn{font-family:inherit; font-size:14px; font-weight:500; color:#E3EEFB;
   background:transparent; border:1px solid rgba(255,255,255,.2); border-radius:999px;
   padding:8px 16px; cursor:pointer; transition:all .15s ease}
-.tab-btn:hover{border-color:var(--mint-text); color:#fff}
-.tab-btn.active{background:var(--mint); border-color:var(--mint); color:#04291F; font-weight:600}
-.tab-btn:focus-visible{outline:2px solid var(--mint-text); outline-offset:3px}
+.tab-btn:hover{border-color:var(--accent-soft); color:#fff}
+.tab-btn.active{background:var(--accent); border-color:var(--accent); color:#17244A; font-weight:600}
+.tab-btn:focus-visible{outline:2px solid var(--accent-soft); outline-offset:3px}
 
 /* ---------- the list ---------- */
 .board-list{margin:0}
@@ -192,7 +194,7 @@ footer a:hover{color:var(--mint-text)}
 @media (max-width:560px){
   .post-head{grid-template-columns:1fr 20px; gap:12px}
   .pd-date{grid-row:2; grid-column:1; padding-top:0}
-  .arcs{display:none}
+  .terminal{height:74px}
 }
 </style>
 </head>
@@ -213,14 +215,7 @@ footer a:hover{color:var(--mint-text)}
 </nav>
 
 <header class="hero">
-  <svg class="arcs" viewBox="0 0 420 420" aria-hidden="true">
-<g fill="none" stroke="#23D6A6">
-<circle cx="210" cy="210" r="200" stroke-width="1" opacity=".3"/>
-<circle cx="210" cy="210" r="152" stroke-width="1" opacity=".2" stroke-dasharray="2 7"/>
-<circle cx="210" cy="210" r="104" stroke-width="1" opacity=".14"/>
-<path d="M210 10 A200 200 0 0 1 351 69" stroke-width="2" opacity=".75"/>
-</g>
-</svg>
+  <div class="terminal"></div>
   <div class="wrap">
     <div class="hero-eyebrow">Analysis and reflection</div>
     <h1>Clarity of direction in aviation, strategy, and capital.</h1>

diff --git a/tools/index.html b/tools/index.html
@@ -43,12 +43,12 @@ body{font-variant-numeric:tabular-nums;margin:0;background:var(--bg);color:var(-
 .sblinks{display:flex;gap:28px;list-style:none;margin:0;padding:0}
 .sblinks a{font-family:inherit;font-size:14.5px;font-weight:500;color:rgba(255,255,255,.78);
  text-decoration:none;transition:color .15s ease}
-.sblinks a:hover,.sblinks a.active{color:#6FF0D2}
-.sblinks a:focus-visible{outline:2px solid #6FF0D2;outline-offset:4px;border-radius:3px}
+.sblinks a:hover,.sblinks a.active{color:#FFD166}
+.sblinks a:focus-visible{outline:2px solid #FFD166;outline-offset:4px;border-radius:3px}
 .sitefoot{background:#082E63;color:rgba(255,255,255,.62);padding:36px 0;font-size:14px;margin-top:44px}
 .sitefoot .wrap{display:flex;justify-content:space-between;align-items:center;flex-wrap:wrap;gap:14px}
 .sitefoot a{color:rgba(255,255,255,.78);text-decoration:none}
-.sitefoot a:hover{color:#6FF0D2}
+.sitefoot a:hover{color:#FFD166}
 .sitefoot .fl{display:flex;gap:22px}
 .sbfoot{background:none;color:var(--mute);font-size:13.5px;line-height:1.6;
  border-top:1px solid var(--line);padding:20px 0 0;margin-top:34px}

diff --git a/tools/airport-charges/index.html b/tools/airport-charges/index.html
@@ -107,12 +107,12 @@ footer p{margin:0 0 6px}
 .sblinks{display:flex;gap:28px;list-style:none;margin:0;padding:0}
 .sblinks a{font-family:inherit;font-size:14.5px;font-weight:500;color:rgba(255,255,255,.78);
  text-decoration:none;transition:color .15s ease}
-.sblinks a:hover,.sblinks a.active{color:#6FF0D2}
-.sblinks a:focus-visible{outline:2px solid #6FF0D2;outline-offset:4px;border-radius:3px}
+.sblinks a:hover,.sblinks a.active{color:#FFD166}
+.sblinks a:focus-visible{outline:2px solid #FFD166;outline-offset:4px;border-radius:3px}
 .sitefoot{background:#082E63;color:rgba(255,255,255,.62);padding:36px 0;font-size:14px;margin-top:44px}
 .sitefoot .wrap{display:flex;justify-content:space-between;align-items:center;flex-wrap:wrap;gap:14px}
 .sitefoot a{color:rgba(255,255,255,.78);text-decoration:none}
-.sitefoot a:hover{color:#6FF0D2}
+.sitefoot a:hover{color:#FFD166}
 .sitefoot .fl{display:flex;gap:22px}
 .sbfoot{background:none;color:var(--mute);font-size:13.5px;line-height:1.6;
  border-top:1px solid var(--line);padding:20px 0 0;margin-top:34px}
